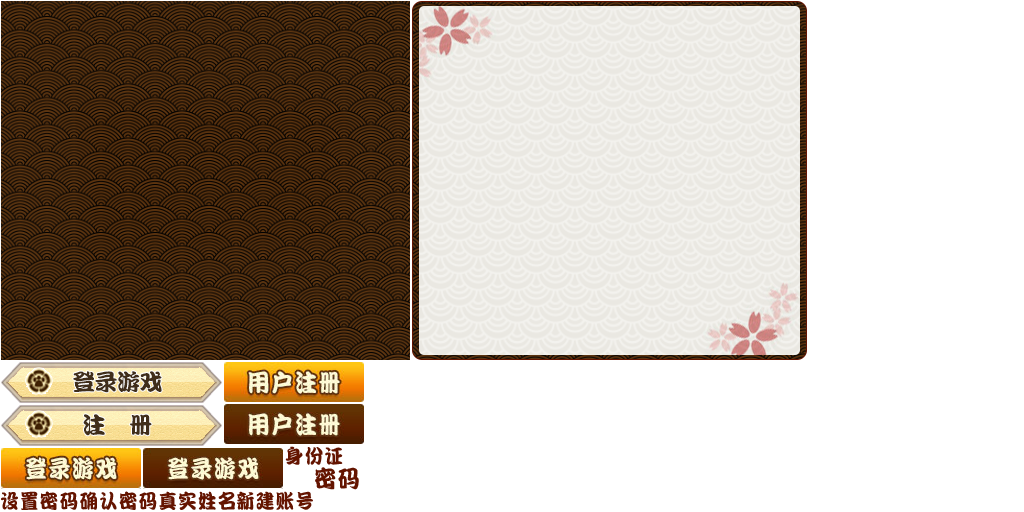
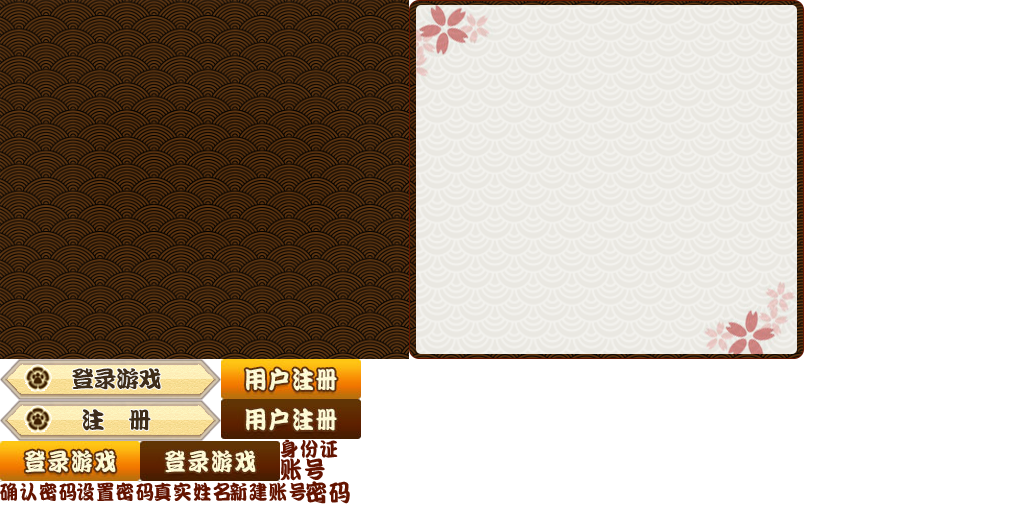
--

Changed region(s): [[0.0, 0.0, 0.8125, 1.0]]

diff --git a/src/core/sui/components/TabGroup.ts b/src/core/sui/components/TabGroup.ts
@@ -1,6 +1,121 @@
 module core.sui {
     export class TabGroup extends egret.EventDispatcher
     {
+        private _list: eui.ToggleButton[];
+        private _selectedItem: eui.ToggleButton;
+        private _selectedIndex: number = -1;
 
+        private container: egret.DisplayObjectContainer;
+
+         constructor(container?: egret.DisplayObjectContainer) {
+            super();
+            this._list = [];
+            this.container = container;
+            this._checklist = {};
+            this._displaylist = {};
+        }
+        
+        private _checklist: { [index: number]: Function };
+        private _displaylist: { [index: number]: egret.DisplayObject };
+
+         /**
+         * 添加单个组件
+         * 
+         * @param {IGroupItem} item
+         */
+        public addItem(item: eui.ToggleButton, display?: egret.DisplayObject, check?: () => boolean) {
+            if (item) {
+                this._list.pushOnce(item);
+                let index = this._list.indexOf(item);
+                if (check)
+                    this._checklist[index] = check;
+                if(display)
+                    this._displaylist[index] = display;
+                item.on(egret.TouchEvent.TOUCH_TAP, this.touchHandler, this);
+            }
+        }
+
+         touchHandler(e: egret.TouchEvent) {
+            let item = e.target;
+            let idx = this._list.indexOf(item);
+            let fun = this._checklist[idx];
+            if (fun && !fun()) return;
+            this.selectedIndex = idx;
+        }
+
+         /**
+         * 移除单个组件
+         * 
+         * @param {IGroupItem} item
+         */
+        public removeItem(item: eui.ToggleButton) {
+            if (item) {
+                let index = this._list.indexOf(item);
+                let display = this._displaylist[index];
+                if(display) removeDisplay(display);
+                this._list.remove(item);
+                item.off(egret.TouchEvent.TOUCH_TAP, this.touchHandler, this);
+            }
+        }
+
+        /**
+         * 设置选中组件
+         */
+        public set selectedItem(item: eui.ToggleButton) {
+            let _selectedItem = this._selectedItem;
+            if (_selectedItem == item) return;
+
+            if (_selectedItem) {
+                if ("selected" in _selectedItem) {
+                    _selectedItem["selected"] = false;
+                }
+                let index = this._list.indexOf(item);
+                let display = this._displaylist[index];
+                if (display) {
+                    removeDisplay(display);
+                }
+            }
+            this._selectedItem = item;
+            _selectedItem = this._selectedItem;
+
+            if (_selectedItem) {
+                if (!~this._list.indexOf(_selectedItem)) {
+                    ThrowError("Group 设置的组件未添加到该组");
+                }
+                if ("selected" in _selectedItem) {
+                    _selectedItem["selected"] = true;
+                }
+                let index = this._list.indexOf(item);
+                let display = this._displaylist[index];
+                if (display && this.container) {
+                    this.container.addChild(display);
+                }
+            }
+
+            this.dispatchEventWith(<any>SuiEvent.GROUP_CHANGE);
+        }
+
+
+        public get selectedItem(): eui.ToggleButton {
+            return this._selectedItem;
+        }
+
+         /**
+         * 设置选中索引
+         */
+        public set selectedIndex(idx: number) {
+            this._selectedIndex = idx;
+            if (idx >= 0) {
+                let item = this._list[idx];
+                this.selectedItem = item;
+            }
+            else {
+                this.selectedItem = undefined;
+            }
+        }
+
+        public get selectedIndex(): number {
+            return this._selectedIndex;
+        }
     }
 }

diff --git a/src/core/sui/core/SuiEvent.ts b/src/core/sui/core/SuiEvent.ts
@@ -1,0 +1,41 @@
+module core.sui {
+
+    /**
+     * SuiEvent 区段 -1000 - -1999
+     * 
+     * @export
+     * @enum {number}
+     */
+    export const enum SuiEvent {
+
+        /*===============================ListItemRender====================================*/
+        /**
+        * 选中未选中
+        * 
+        * @static
+        * @type {string}
+        */
+        CHOOSE_STATE_CHANGE = -1000,
+        /**
+         * List中单击事件
+         */
+        ITEM_TOUCH_TAP = -1001,
+
+        /*===============================Group====================================*/
+        /**
+         * 分组发生改变
+         */
+        GROUP_CHANGE = -1020,
+
+
+        /*===============================NumbericStepper/Slider====================================*/
+        VALUE_CHANGE = -1040,
+
+        /*===============================SCROLLER/PAGE====================================*/
+        PAGE_CHANGE = -1050,
+
+        SCROLL_POSITION_CHANGE = -1051,
+
+
+    }
+}

diff --git a/src/game/module/login/LoginPanelMediator.ts b/src/game/module/login/LoginPanelMediator.ts
@@ -1,25 +1,40 @@
 module core.game {
 	export class LoginPanelMediator extends mvc.Mediator {
-        constructor() {
+		constructor() {
 			super(ModuleId.Login);
 		}
 
 		public $view: LoginPanel;
-        protected init() {
+
+		private group: sui.TabGroup;
+		protected init() {
 			this.view = new LoginPanel;
 			ResizeManager.getInstance().add(this.view, sui.LayoutType.MIDDLE_CENTER);
 			//这里加事件关注
 		}
 
-		public awake()
+		protected afterAllReady() {
+			let view = this.$view;
+			let group = this.group = new sui.TabGroup();
+			group.addItem(view.tab_login)
+			group.addItem(view.tab_regist)
+			group.on(sui.SuiEvent.GROUP_CHANGE,this.onGroupChange,this);
+		}
+
+
+		private onGroupChange()
 		{
+			
+		}
+
+
+		public awake() {
 			let view = this.$view;
 		}
 
 
-		public sleep()
-		{
+		public sleep() {
 
 		}
-    }
+	}
 }

diff --git a/src/AssetAdapter.ts b/src/AssetAdapter.ts
@@ -36,7 +36,7 @@ class AssetAdapter implements eui.IAssetAdapter {
      * @param compFunc 解析完成回调函数，示例：callBack(content:any,source:string):void;
      * @param thisObject callBack的 this 引用
      */
-    public getAsset(source: string, compFunc:Function, thisObject: any): void {
+    public getAsset(source: string, compFunc: Function, thisObject: any): void {
         function onGetRes(data: any): void {
             compFunc.call(thisObject, data, source);
         }

diff --git a/src/game/module/login/LoginPanel.ts b/src/game/module/login/LoginPanel.ts
@@ -8,5 +8,8 @@ module core.game {
             this.skinName = "resource/ui/panel/LoginPanel.exml";
             this._key = "Login"
         }
+
+        public tab_regist:eui.ToggleButton;
+        public tab_login:eui.ToggleButton;
     }
 }
